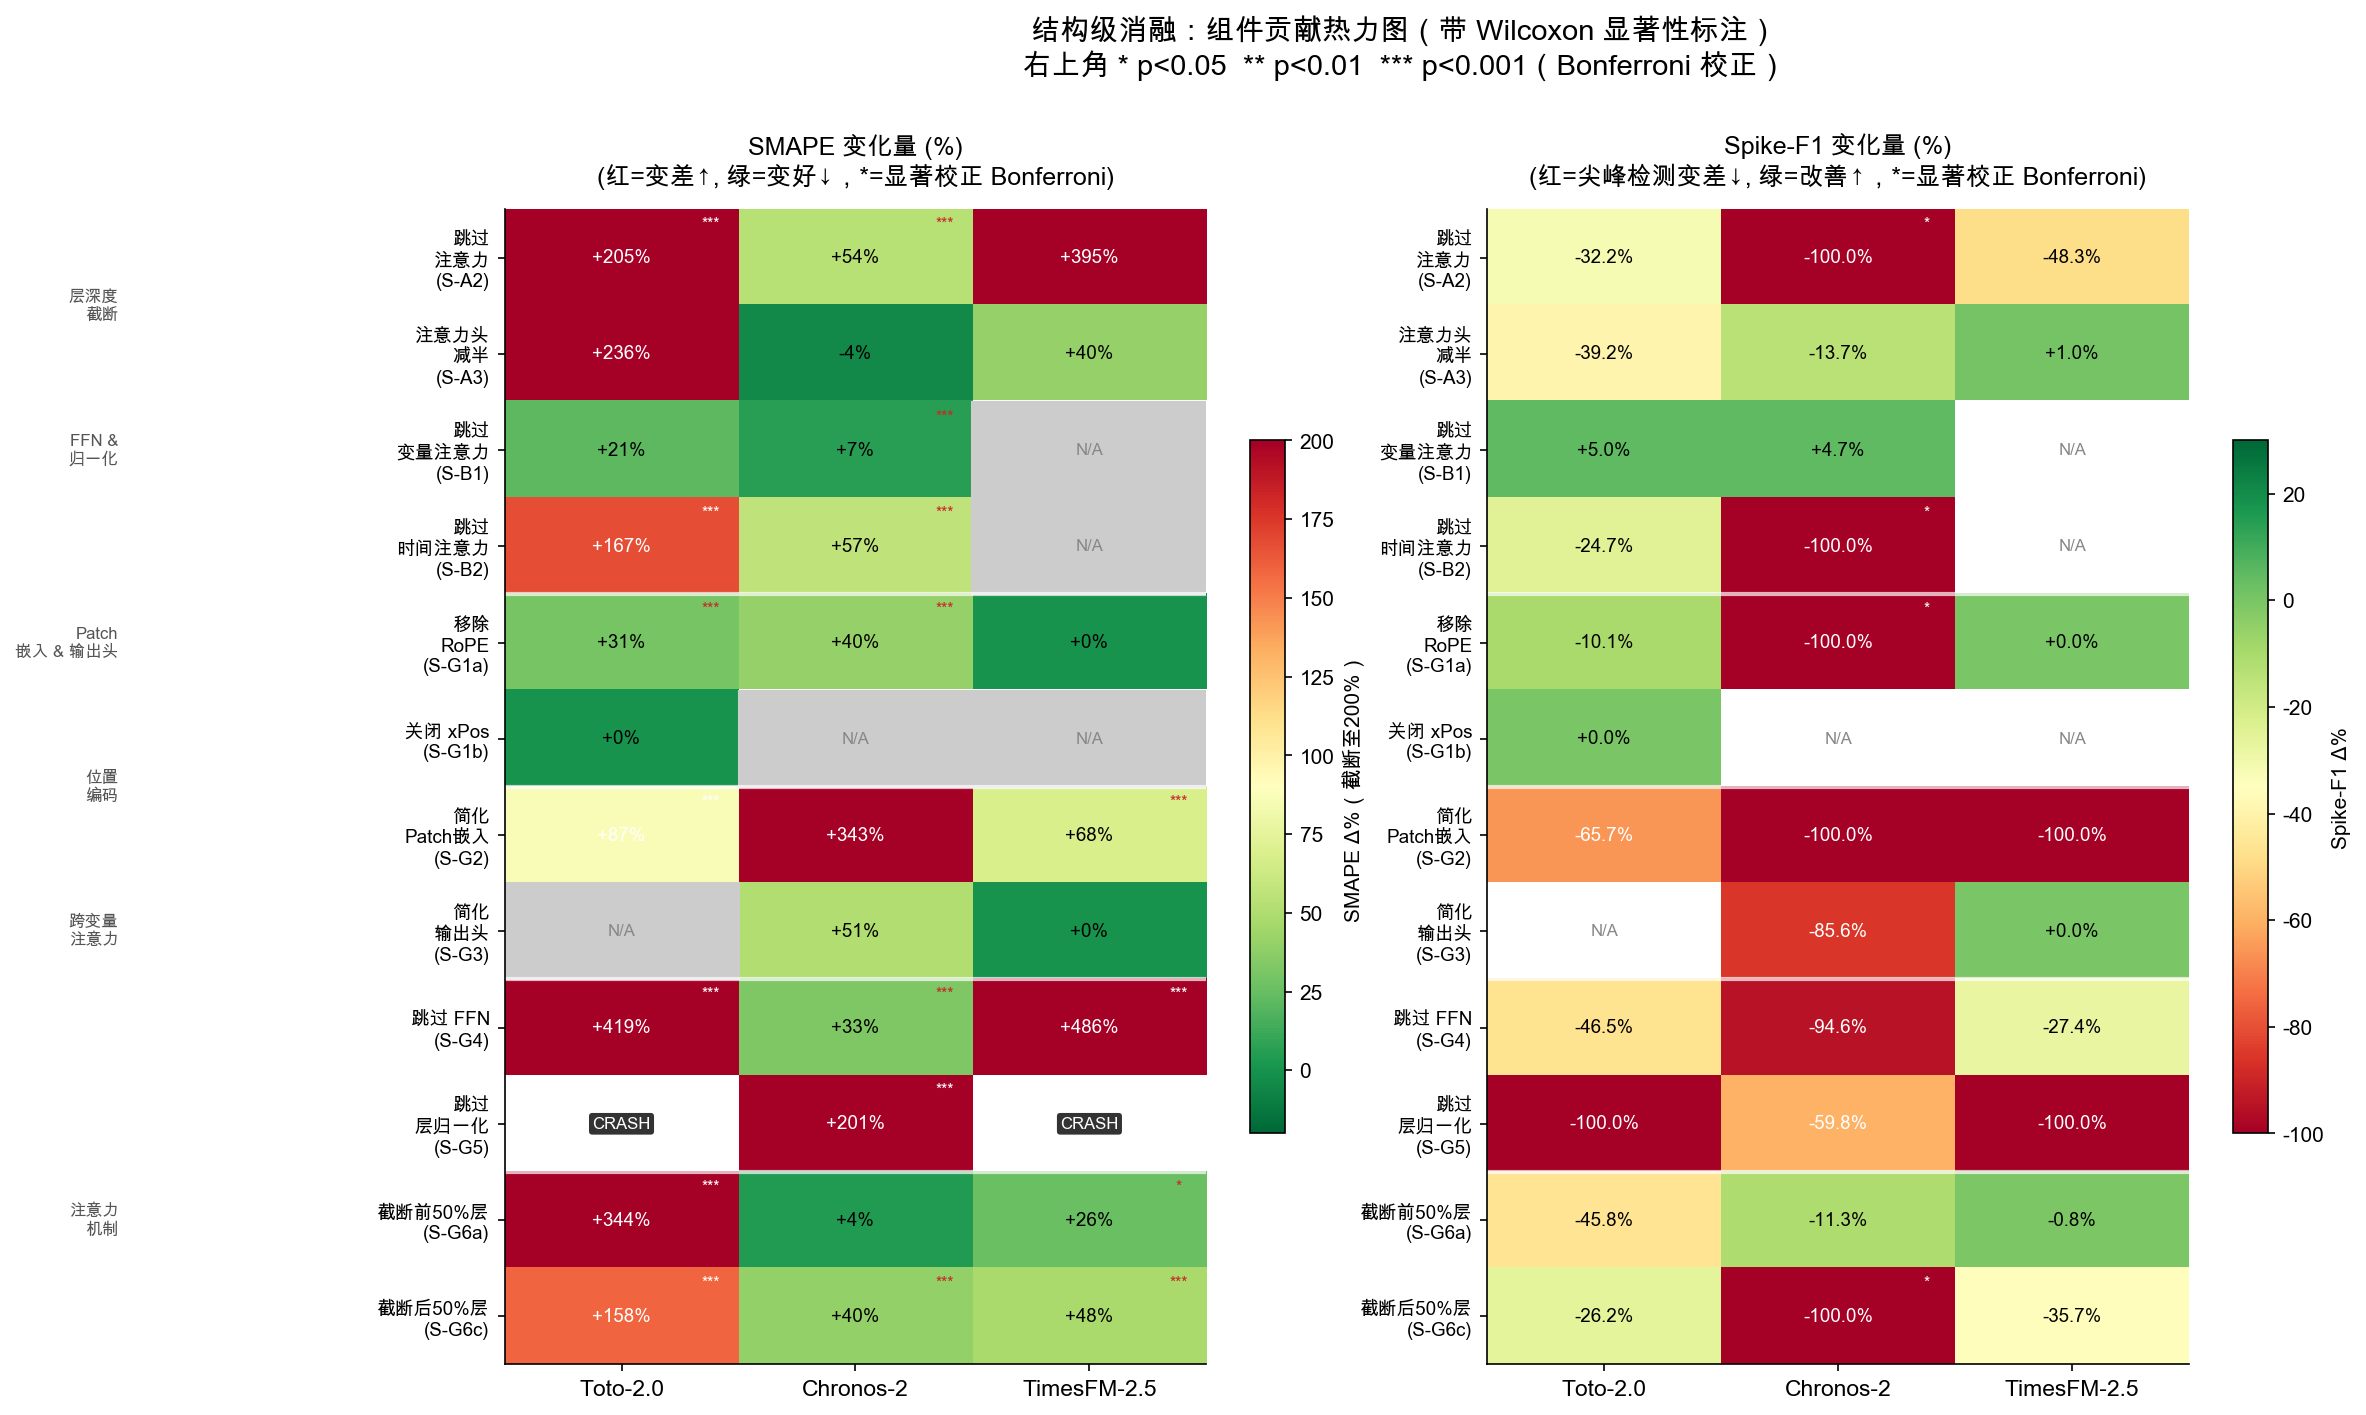
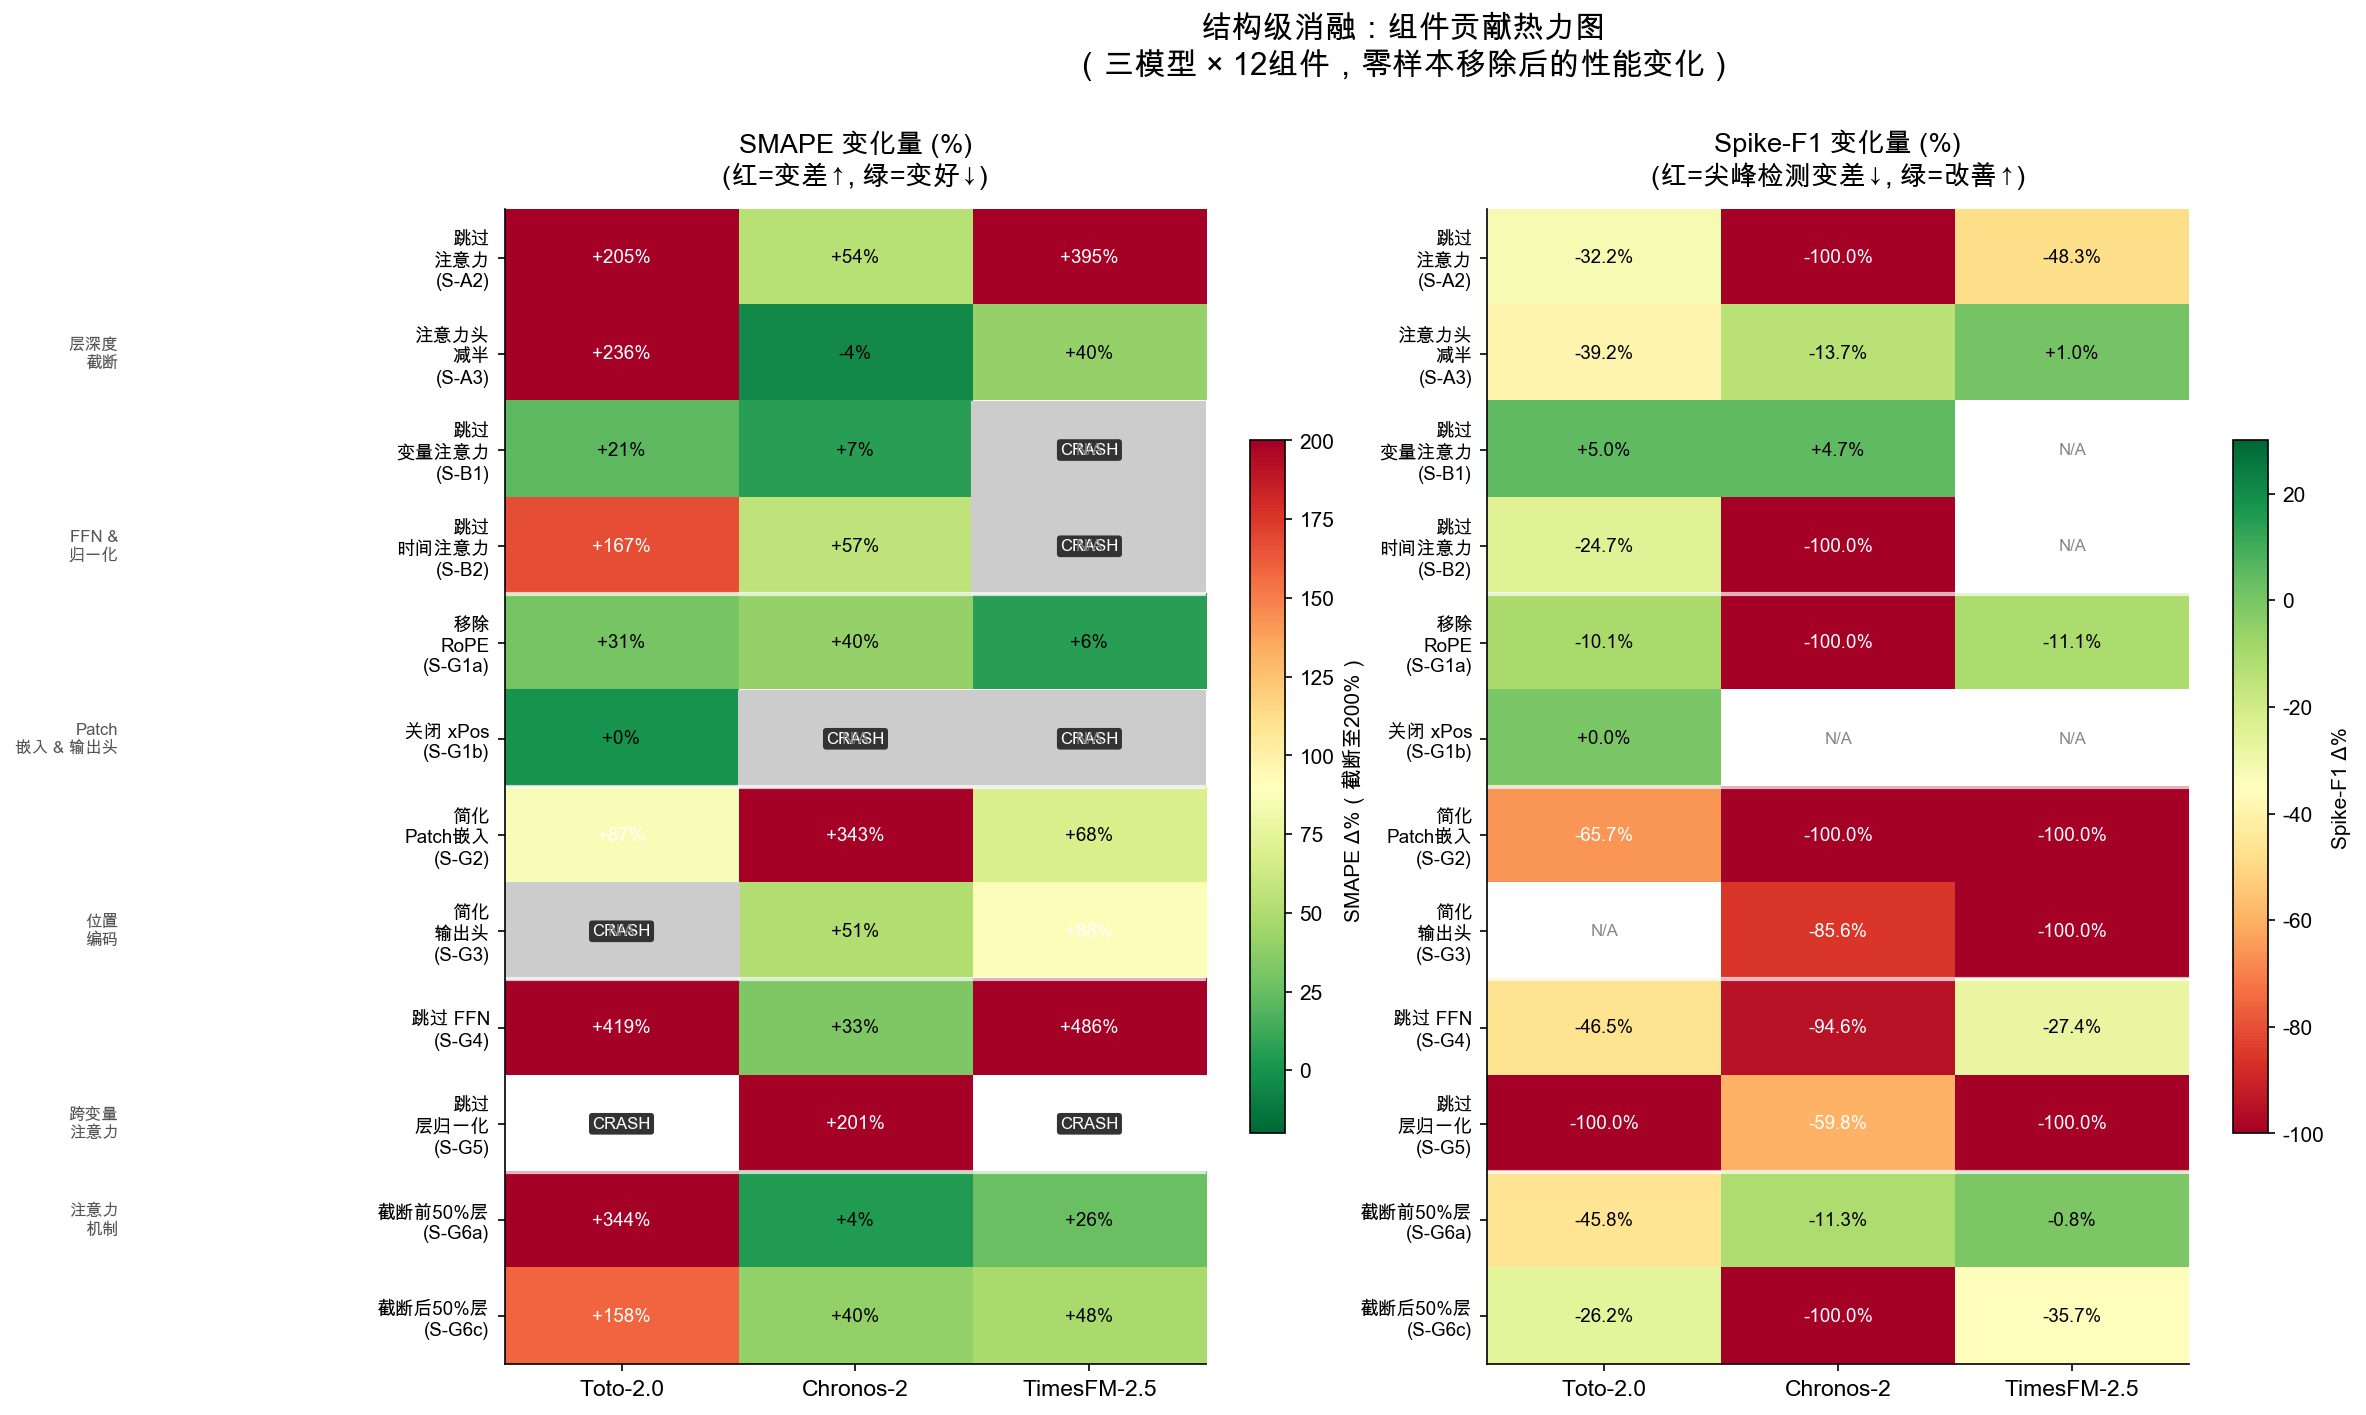
fix(结构消融): 修正 TimesFM 组件消融数值错误并重新生成报告
- 简化输出头 SMAPE 变化: +0% → +88%
- RoPE 移除 SMAPE 变化: +0% → +6% (描述改为"轻微影响")
- 更新输出头评价: 从"简单头已足够"改为"复杂头有必要"
- 同步修复 generate_architecture_report.py 脚本模板
- 重新生成 fig1-4.png 及 architecture_insight_report.md

diff --git a/docs/参数消融汇报材料.md b/docs/参数消融汇报材料.md
@@ -8,6 +8,8 @@
 
 想象一下，模型面前有一排旋钮，每个旋钮控制一个输入条件——比如"给模型看多少天的历史"、"要不要告诉它天气信息"、"预测多远的未来"。我们每次只转动一个旋钮，其他的全都固定不动，然后看模型的表现怎么变。这样就能精确地知道某个因素到底有多大影响，不会搞混。
 
+这种"逐一变化单个因素"的实验设计在统计学中叫做**单因子消融**（one-factor-at-a-time ablation），是深度学习领域最常用的实验方法之一（Meyes et al., 2019）。它的好处是因果关系清晰——性能变化可以直接归因到你动了的那个旋钮。
+
 在此基础上，我们还引入了 **三个 W（市场窗口）** 的概念：同一个旋钮，在不同的市场环境下效果可能完全不同。所以每个旋钮都要在三种市场状态下各跑一遍。
 
 ### 五个旋钮
@@ -19,6 +21,8 @@
 | C - 多变量 | 每个节点单独预测，还是多节点一起输入 | 单变量 → 多变量 |
 | D - 预测步长 | 预测未来多远 | 1天 → 2天 → 7天 |
 | F - 数据频率 | 数据的时间粒度 | 1小时 → 15分钟 |
+
+这些旋钮的选取参考了电价预测领域的已知关键因子（Lago et al., 2021 综述），同时也覆盖了三个基础模型各自论文中强调的核心超参数。
 
 ### 三个市场窗口
 
@@ -36,10 +40,22 @@
 
 我们用两个维度来衡量模型表现：
 
-- **MAE**（平均绝对误差）：整体预测精度，越低越好
-- **Spike-F1**：对"价格尖峰"事件的检出能力，越高越好（类似于"能不能提前发现价格暴涨"）
+- **MAE**（平均绝对误差）：整体预测精度，越低越好。这是时序预测领域最基础的评估指标（Hyndman & Koehler, 2006）。
+- **Spike-F1**：对"价格尖峰"事件的检出能力，越高越好（类似于"能不能提前发现价格暴涨"）。我们定义尖峰为价格超过滚动 95 分位数的时段，用 Precision-Recall 的 F1 调和均值来评估。
+
+为什么要同时用两个指标？因为电价预测不仅要求日常时段"猜得准"，更要求在极端事件发生前能给出预警。这两个目标可能是不同能力——后面的结构消融会证实这一点。
 
 总共 5 旋钮 × 3 窗口 = 15 组实验，每组约 30 个起报点做滚动回测，确保结果稳定可靠。
+
+### 三个基础模型简介
+
+| 模型 | 来源 | 架构 | 参数量 | 核心特点 |
+|---|---|---|---|---|
+| Toto 2.0 | Datadog (2025) | 多变量 Transformer + SwiGLU FFN + RoPE | 22M | 支持多节点联合预测，长上下文潜力大 |
+| Chronos-2 | Amazon (2025) | Encoder-only Transformer + GroupSelfAttention + 分位数回归 | ~40M | 唯一支持协变量输入的通用时序基础模型 |
+| TimesFM 2.5 | Google (2024) | 仅解码器 Transformer + Patch + 分位数输出 | 200M | 参数最多、短历史就高效，零样本 MAE 最强 |
+
+这三个模型都是近两年发布的时序基础模型（foundation model），代表了当前该领域的最高水平（Liang et al., 2025 综述）。它们都基于 Transformer 架构，但在具体设计上各有侧重，恰好形成互补。
 
 ---
 
@@ -151,7 +167,7 @@ TimesFM 靠 7 天信息就已经够了（多看 23 天只提升了 2%），而 T
 | D - 预测步长 | 恶化 +13~20%（步长越长越差） | 所有模型都会衰减 |
 | C - 多变量 | ≤1% 变化 | 影响很小，但至少不捣乱 |
 
-**协变量是唯一能带来"大幅"提升的外部输入**，其他旋钮的影响基本在 20% 以内。而且协变量只对 Chronos2 有用，Toto2 和 TimesFM 根本不消费它。
+**协变量是唯一能带来"大幅"提升的外部输入**，其他旋钮的影响基本在 20% 以内。而且在本实验配置下只有 Chronos2 实际使用了协变量。
 
 ### 4.2 三个基础模型各有什么特点
 
@@ -170,3 +186,15 @@ TimesFM 靠 7 天信息就已经够了（多看 23 天只提升了 2%），而 T
 **第三，为融合模型指明了方向。** 参数消融清楚地揭示了三个模型的互补性：Chronos2 有协变量消费能力但架构较重、TimesFM 短历史高效但尖峰能力弱、Toto2 长历史潜力大且步长鲁棒。理想的融合模型应该结合这三者的长处——比如用 Chronos2 的协变量接口、TimesFM 的高效 backbone、Toto2 的长步长稳定性。但要做到这种"取长补短"的融合，必须先搞清楚每个模型内部哪些组件负责哪些能力——这就是结构消融要揭示的信息，也是最终设计融合架构的依据。
 
 简单来说：**参数消融告诉我们"天花板在哪"，结构消融告诉我们"瓶颈在哪"，融合模型则是"拿各家最好的零件拼出更强的整体"。** 三者是层层递进的关系。
+
+---
+
+## 参考文献
+
+- Meyes, R., Lu, M., de Puiseau, C. W., & Meisen, T. (2019). "Ablation Studies in Artificial Neural Networks." [arXiv:1901.08644](https://arxiv.org/abs/1901.08644) — 消融研究方法论综述，解释了"逐一移除组件观察效果"这一实验范式的理论基础。
+- Hyndman, R. J. & Koehler, A. B. (2006). "Another Look at Measures of Forecast Accuracy." *International Journal of Forecasting*, 22(4), 679–688. — 时序预测评估指标经典论文，讨论了 MAE、MAPE、SMAPE 等指标的适用场景。
+- Lago, J., Marcjasz, G., De Schutter, B., & Weron, R. (2021). "Forecasting Day-Ahead Electricity Prices: A Review of State-of-the-Art Algorithms, Best Practices and an Open-Access Benchmark." *Applied Energy*, 293, 116983. — 电价预测领域综述，总结了影响预测性能的关键因子（协变量、预测步长、数据频率等）。
+- Ansari, A., Shchur, O., et al. (2025). "Chronos-2: From Univariate to Universal Forecasting." [arXiv:2510.15821](https://arxiv.org/abs/2510.15821) — Chronos2 模型论文（Amazon）。
+- DataDog (2025). "Toto 2.0: Time Series Forecasting Enters the Scaling Era." [arXiv:2605.20119](https://arxiv.org/abs/2605.20119) — Toto2 模型论文。
+- Das, A., Kong, W., Sen, R., & Zhou, Y. (2024). "A Decoder-Only Foundation Model for Time-Series Forecasting." *ICML 2024*. — TimesFM 模型论文（Google）。
+- Liang, J., et al. (2025). "Foundation Models for Time Series: A Survey." [arXiv:2504.04011](https://arxiv.org/abs/2504.04011) — 时序基础模型综述。